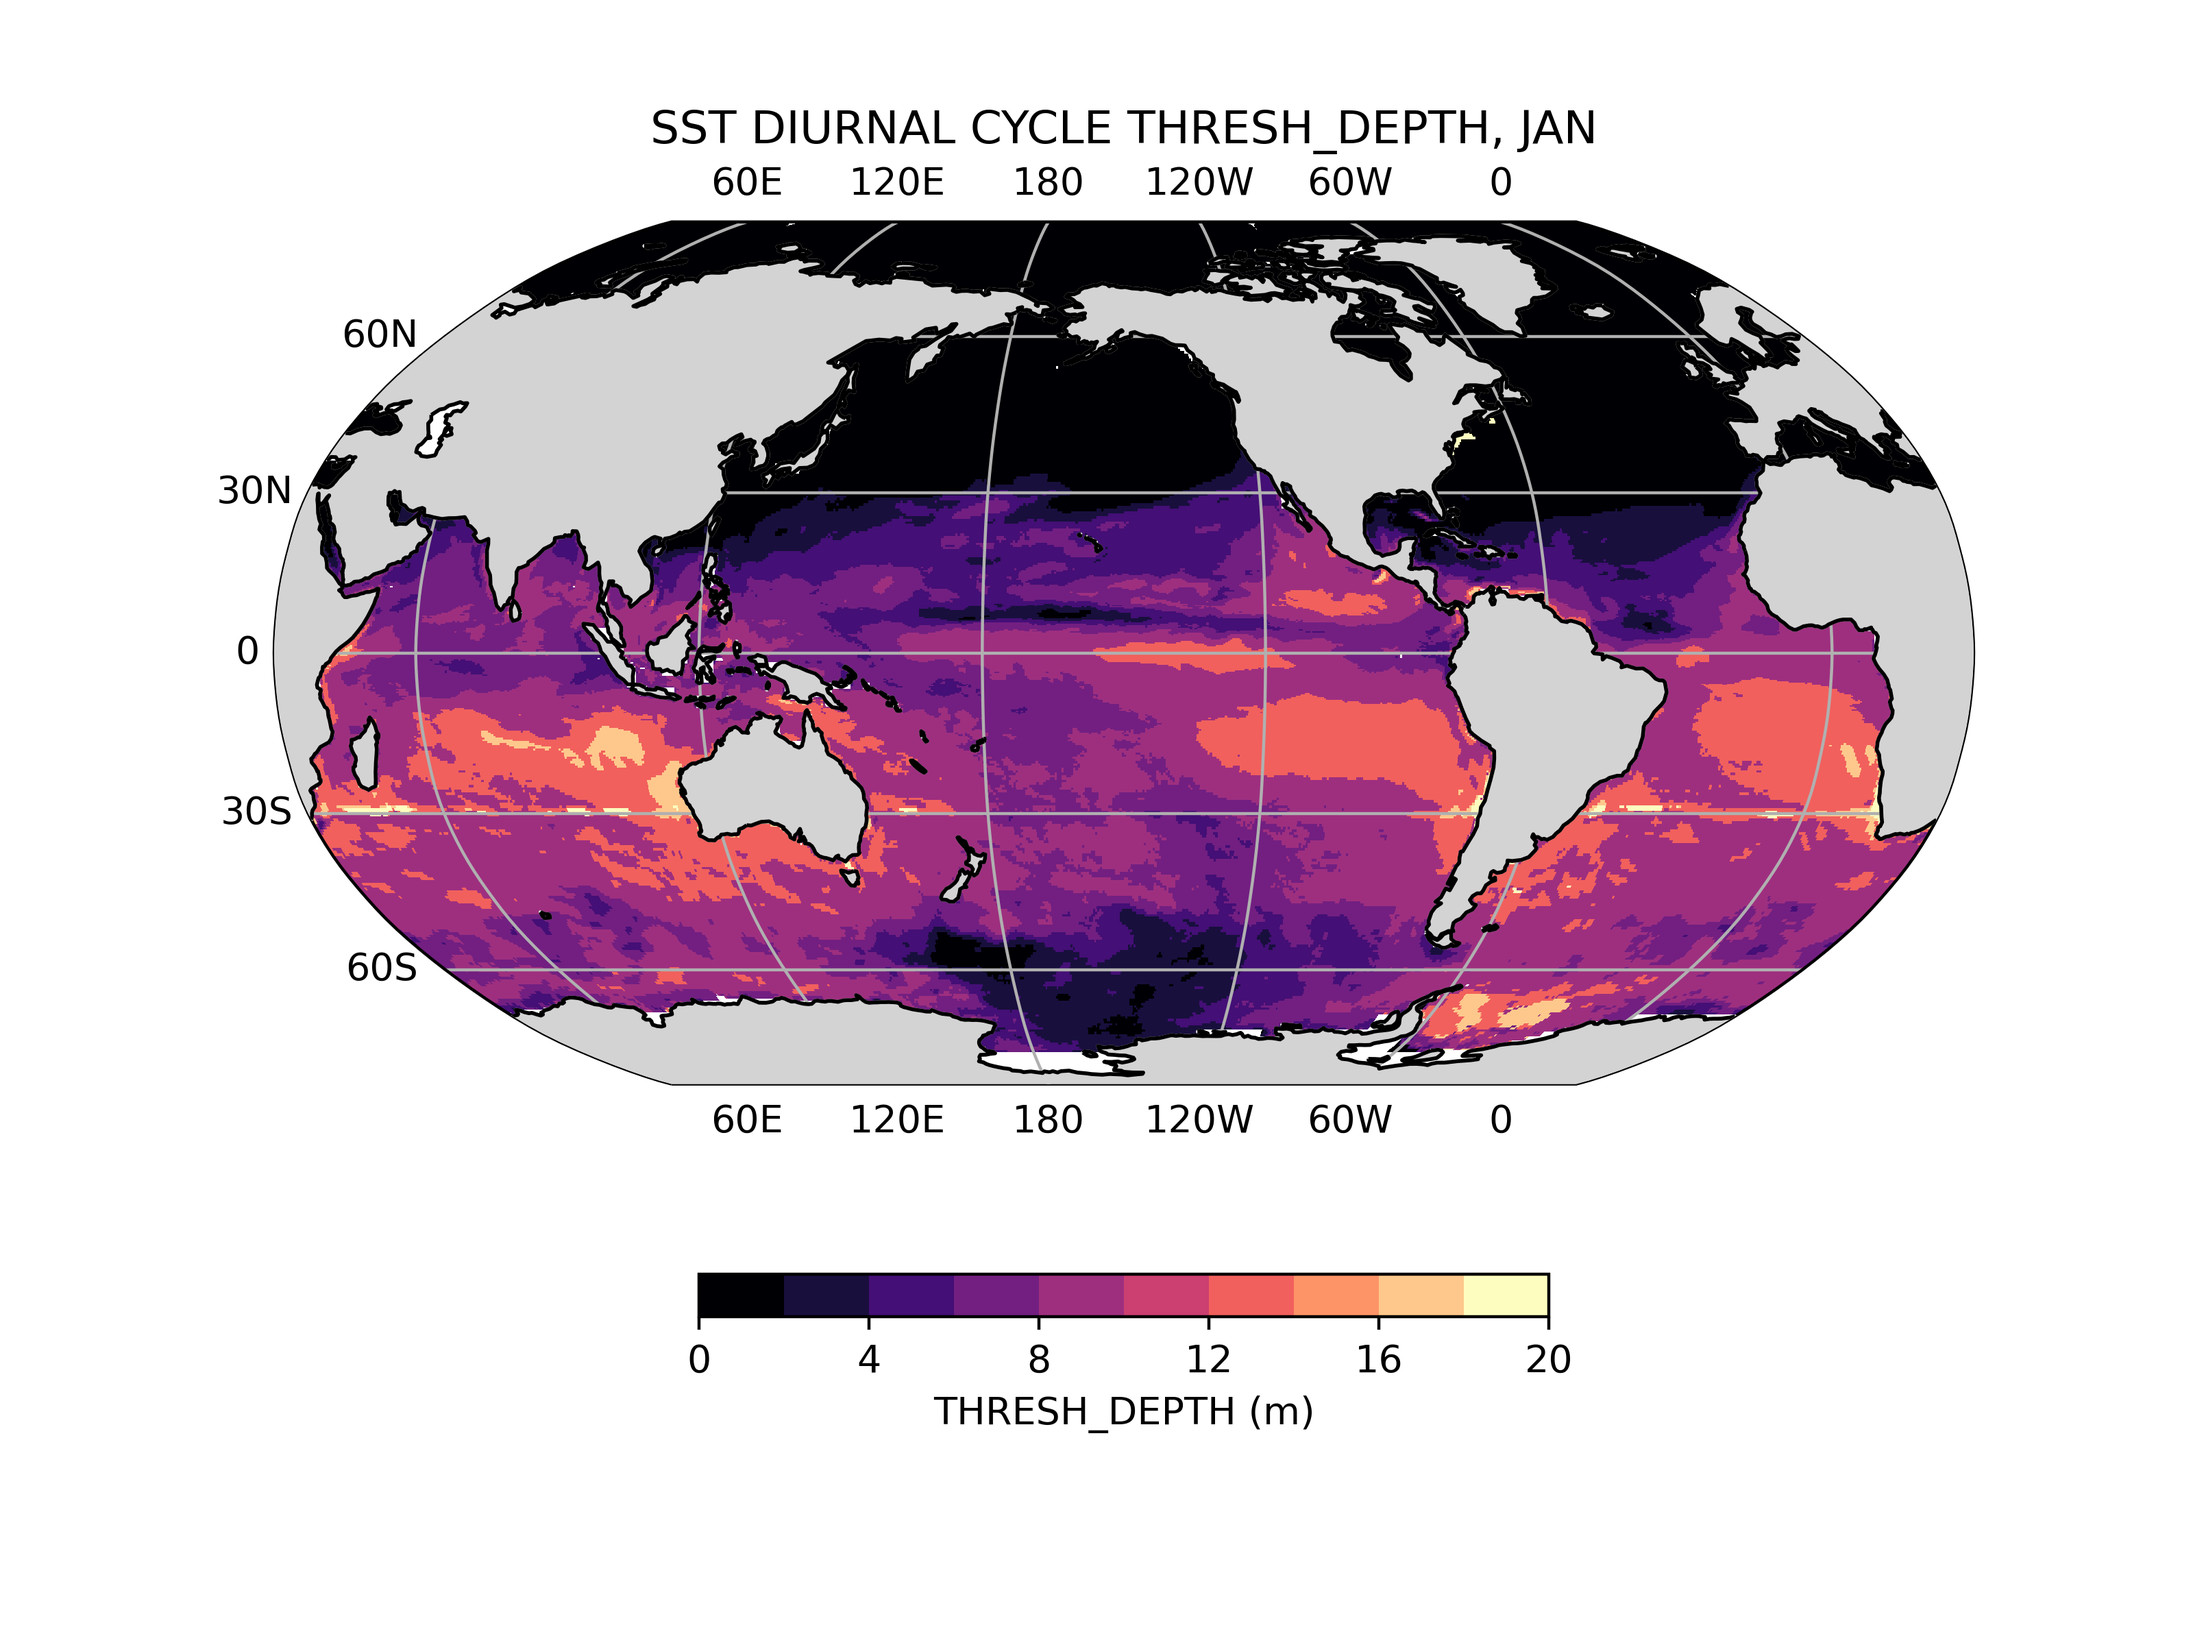
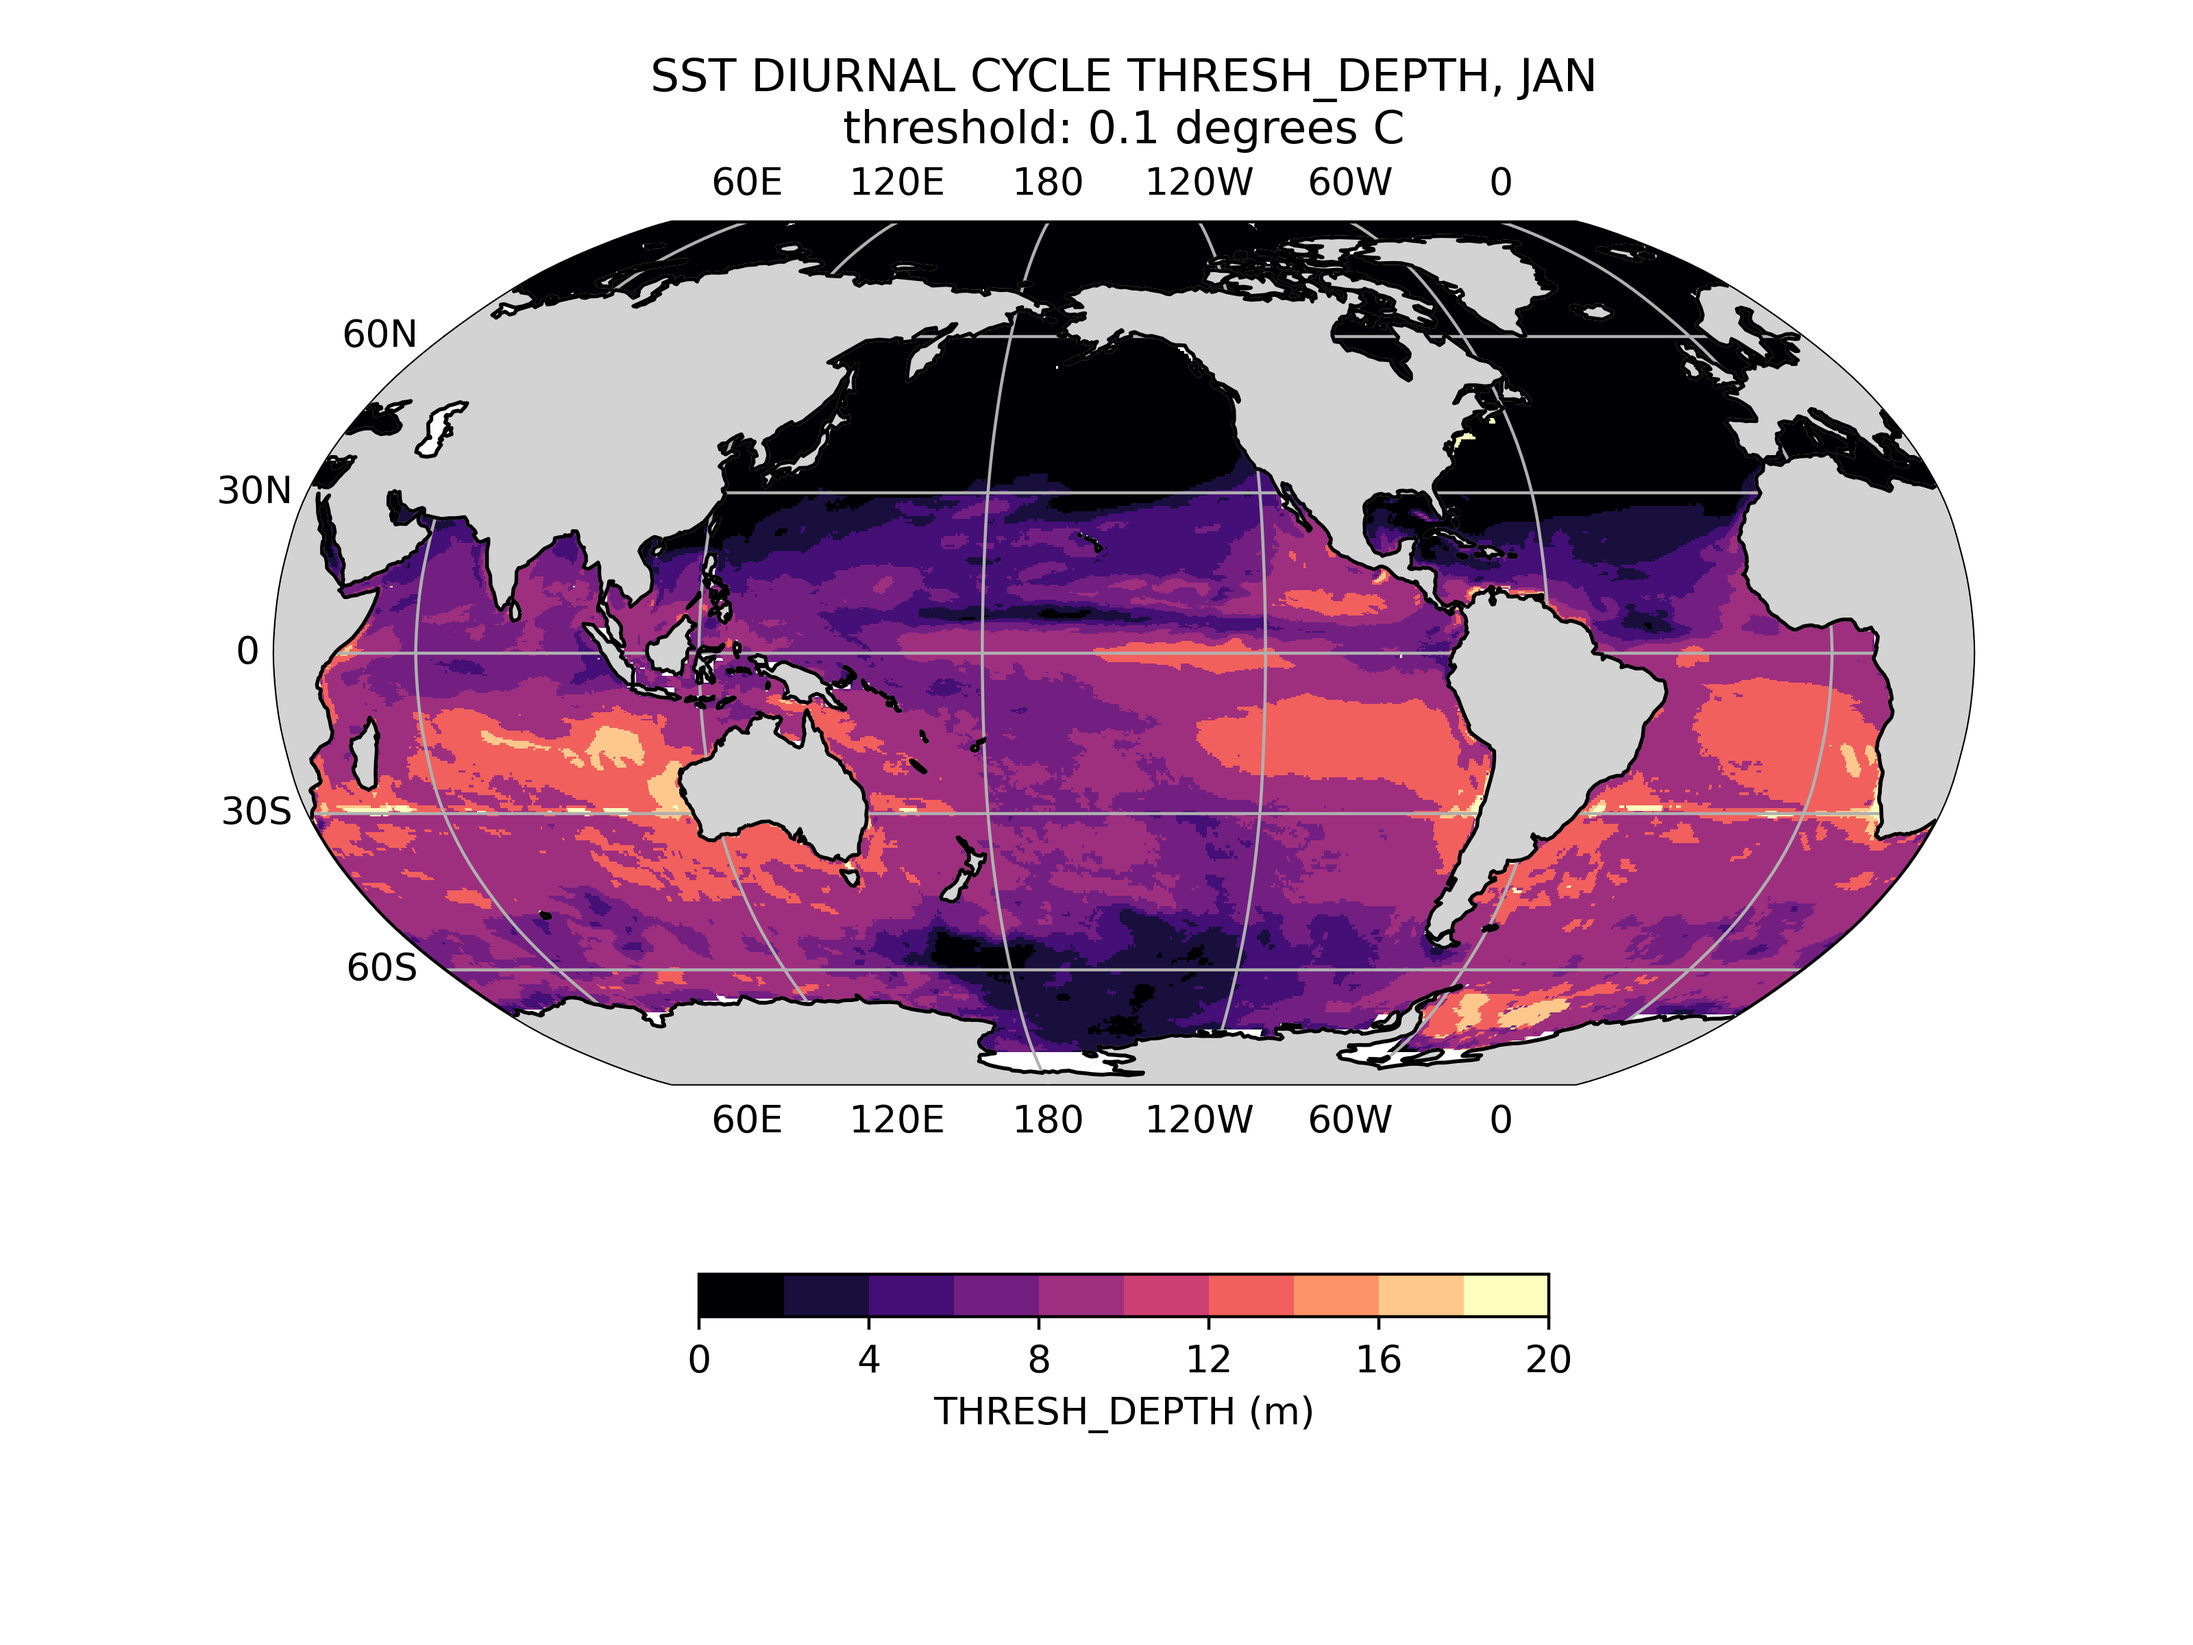
Updates threshold-based maps.

Changed region(s): [[0.2812, 0.0312, 0.7188, 0.0938]]

diff --git a/diurnal_cycle/analysis/diurnal_range_maps.py b/diurnal_cycle/analysis/diurnal_range_maps.py
@@ -205,6 +205,7 @@ def main(plot_month, plot_var, plot_type):
             ds_out['THRESH_DEPTH'].attrs = {
                 'long_name':'deepest level at which range of mean diurnal cycle is >= ' + str(thresh_depth),
                 'units':'m',
+                'threshold':str(thresh_depth) + ' ' + ds[ds_var].attrs['units'],
                 'variable':ds[ds_var].attrs['long_name'],
                 'cell_methods':month_str +  ' mean over years & months for each hour of day; (max - min) over hours of day; deepest grid level i such that range[i] >=' + str(thresh_depth) + ' ' + ds[ds_var].attrs['units'],
                 'time_period':month_str + ' 2002-2005'
@@ -212,6 +213,7 @@ def main(plot_month, plot_var, plot_type):
             ds_out['THRESH_DELAY'].attrs = {
                 'long_name':'delay of time of diurnal cycle maximum at THRESH_DEPTH after maximum at surface',
                 'units':'hours',
+                'threshold':str(thresh_depth) + ' ' + ds[ds_var].attrs['units'],
                 'variable':ds[ds_var].attrs['long_name'],
                 'cell_methods':month_str + ' mean over years & months for each hour of day ; (max - min) over hours of day.',
                 'time_period':month_str + ' 2002-2005'
@@ -295,8 +297,12 @@ def plot_one_map(ds, ptype, pvar, mon):
                           cmap=cmap_b, norm=norm_b, shading='nearest')
     
     # Finish up figure.
-    ax.set_title(plot_dets(pvar, 'plotname') + ' DIURNAL CYCLE ' + ptype
-                 + ', ' + mon)
+    if ptype in ['THRESH_DEPTH', 'THRESH_DELAY']:
+        ax.set_title(plot_dets(pvar, 'plotname') + ' DIURNAL CYCLE ' + ptype 
+                     + ', ' + mon + '\nthreshold: ' + ds[ptype].attrs['threshold'])
+    else:
+        ax.set_title(plot_dets(pvar, 'plotname') + ' DIURNAL CYCLE ' + ptype
+                     + ', ' + mon)
     fig.colorbar(p,
                  label=ptype + ' (' + plot_dets(pvar, 'units', ptype) + ')',
                  ax=ax, orientation='horizontal',shrink=0.5)
